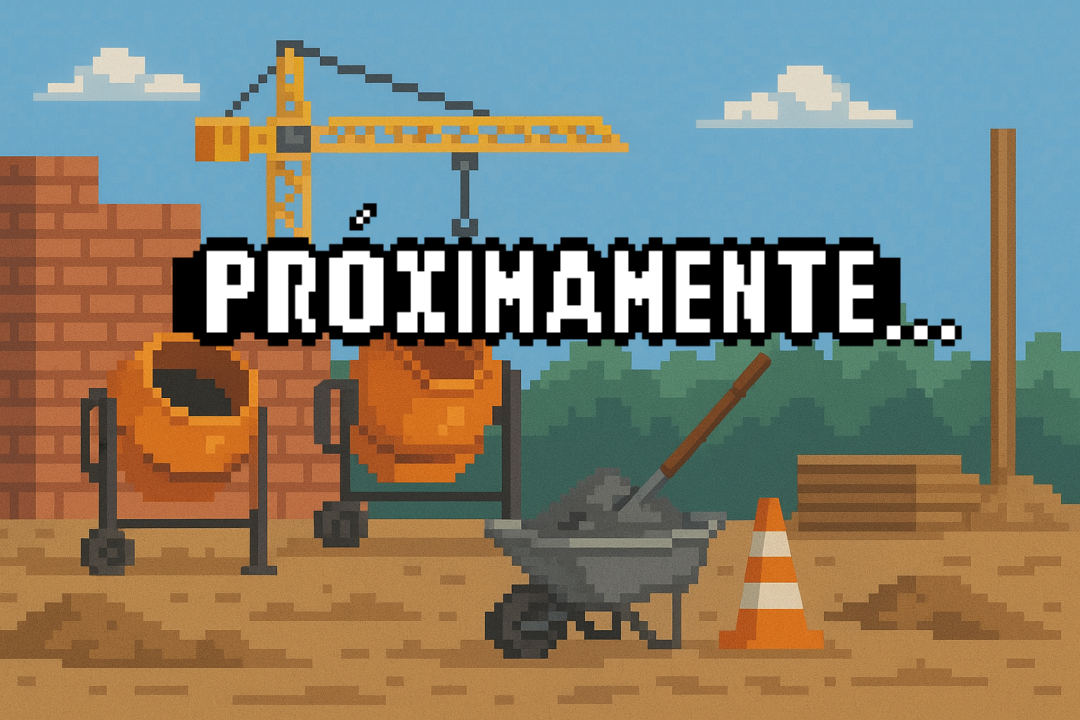
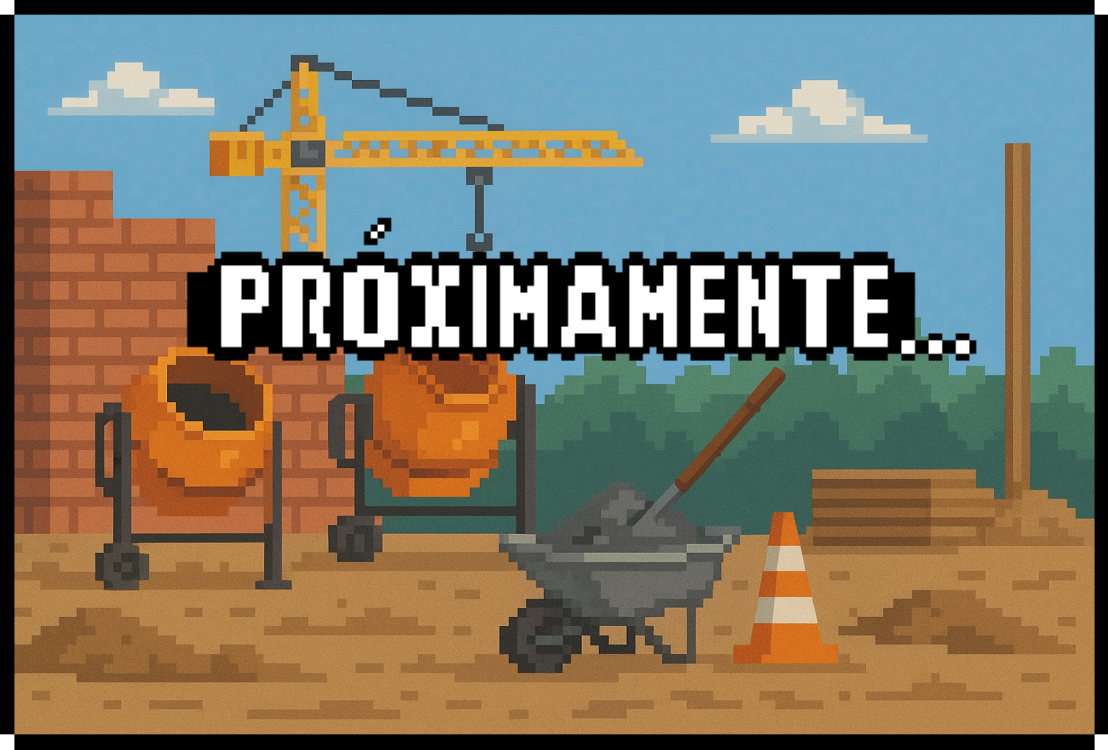
Act

diff --git a/config.js b/config.js
@@ -192,7 +192,7 @@ export const zones = [
         title: 'Plugins',
         content:
           '<p style="text-align:center; margin-top:40px;"> Esta sección está en mantenimiento </p>' +
-          "<img src='assets/obra.png' alt='En obras' style='display:block; margin:30px auto; max-width:300px;'>",
+          "<img src='assets/obra.png' alt='En obras' style='display:block; margin:30px auto; max-width:700px;'>",
         bg: 'assets/fondo.png',
         gradient: 'linear-gradient(to bottom, rgba(0,0,0,0.6), rgba(155, 129, 57, 0.78))'
       }
